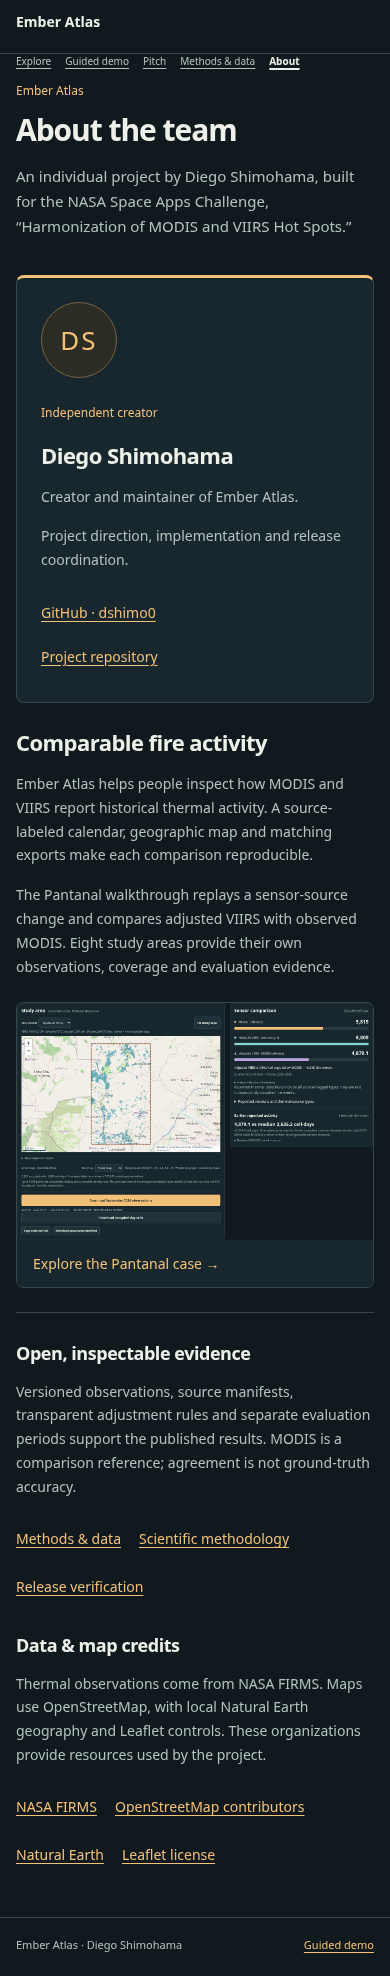
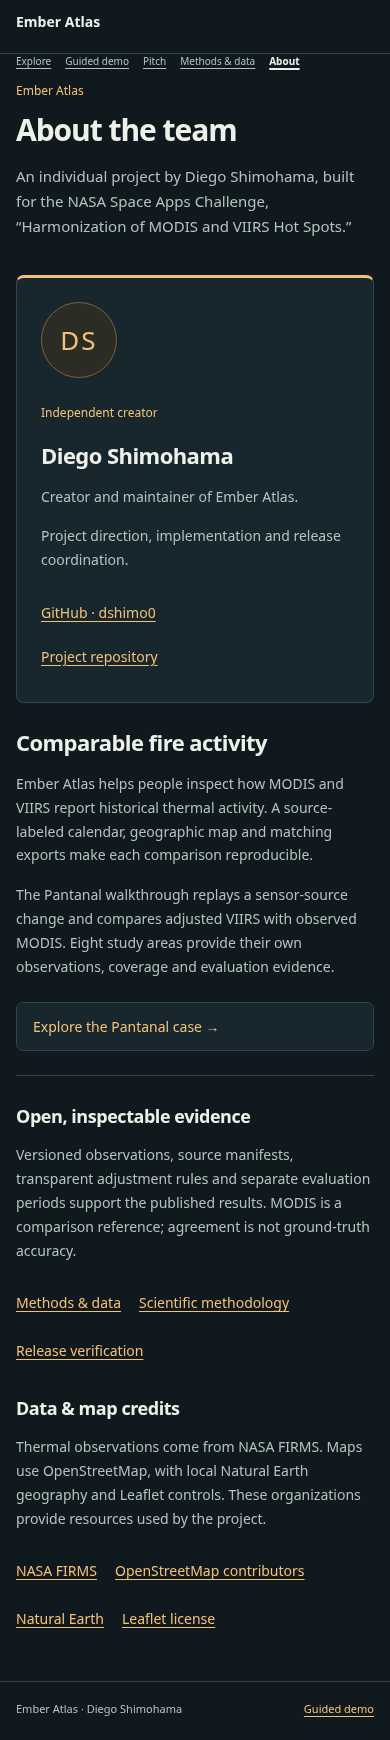
Record signed-out About page checks and creator confirmation

diff --git a/scripts/check_about.py b/scripts/check_about.py
@@ -27,7 +27,7 @@ with sync_playwright() as p:
    page.go_back();page.wait_for_function("!document.querySelector('#download').disabled",timeout=120000)
    assert page.locator('#region').input_value()=='california'
    assert page.locator('#monthSelect').input_value()=='2024-09'
-   page.goto(BASE+'/pitch?slide=9');page.wait_for_function("document.querySelector('#pitchCounter').textContent==='Slide 9 of 9'",timeout=120000)
+   page.goto(BASE+'/pitch?slide=9');page.wait_for_function("document.querySelector('#pitchCounter')?.textContent==='Slide 9 of 9'",timeout=120000)
    assert page.locator('#pitchPage a[href="/about"]').count()==1
   assert not errors,errors
   checks.append({'viewport':name,'direct_load_refresh':True,'no_horizontal_overflow':True,'keyboard_skip_link':True,'analytical_state_preserved_by_browser_back':name!='small-mobile','unexpected_page_errors':errors});c.close()

diff --git a/docs/challenge-traceability.md b/docs/challenge-traceability.md
@@ -53,3 +53,7 @@ Continuation input: branch `work`, release `3e28f40`; the existing eight-region 
 
 Units: occupied cell-days/month; full named study rectangle, SP only. Inner choice uses 2022 after fitting 2020–2021; refit uses 2020–2022. Outer: 2023–2024, including the previously published September 2024; the artifact also reports the sensitivity excluding that month. Fresh: January 2025–July 2026, excluded from fitting and selection. Pantanal retains the original publication regardless of the new audit. A failed regional gate withholds adjustment. MODIS is the comparison reference, not ground truth.
 <!-- REGIONAL-EVALUATION:END -->
+
+## Creator and About page
+
+The owner confirmed **Diego Shimohama** as the sole creator. `/about` is linked from every shared header and the final pitch section. Public direct loads/refresh, keyboard navigation, desktop/mobile widths, browser-back analytical state and no-JavaScript rendering passed. [Executed About release](../submission/about-release.json) records the source and deployment. No additional members, professional credentials or partners are asserted. The supplied emblem preview has no accessible original asset in the workspace; it has not been substituted or published.

diff --git a/README.md b/README.md
@@ -100,3 +100,5 @@ Release verification: deployed source [`1018c678`](https://github.com/dshimo0/em
 ## Creator
 
 Ember Atlas is an individual project by **Diego Shimohama**. The [About page](https://ember-atlas-opal.vercel.app/about) identifies the creator and links to the project, reproducible evidence and data credits. AI assistance and submission-specific disclosures are recorded in the submission materials.
+
+About-page verification and its deployment identity are recorded in [about-release.json](submission/about-release.json); scientific artifacts and their prior validation remain unchanged.
